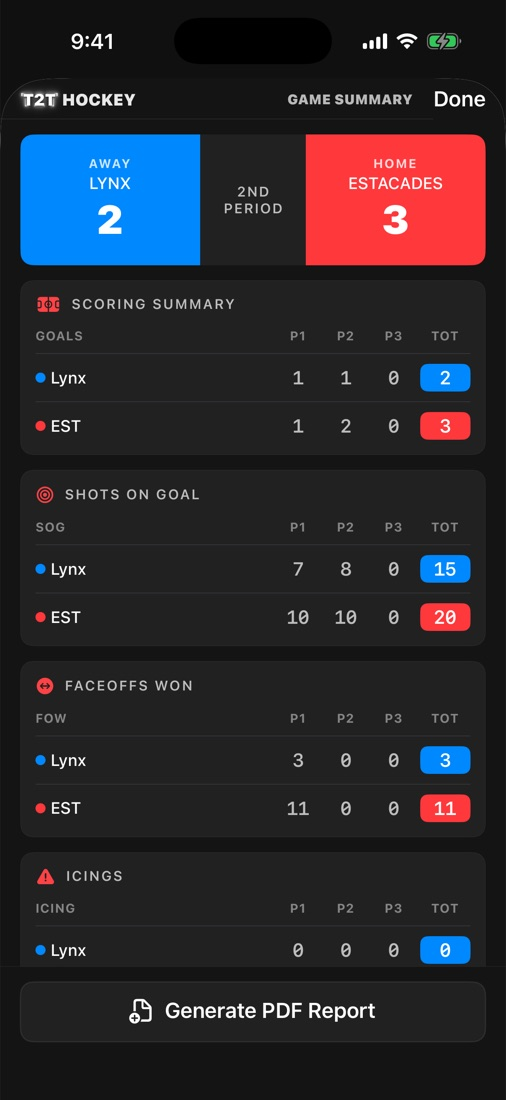
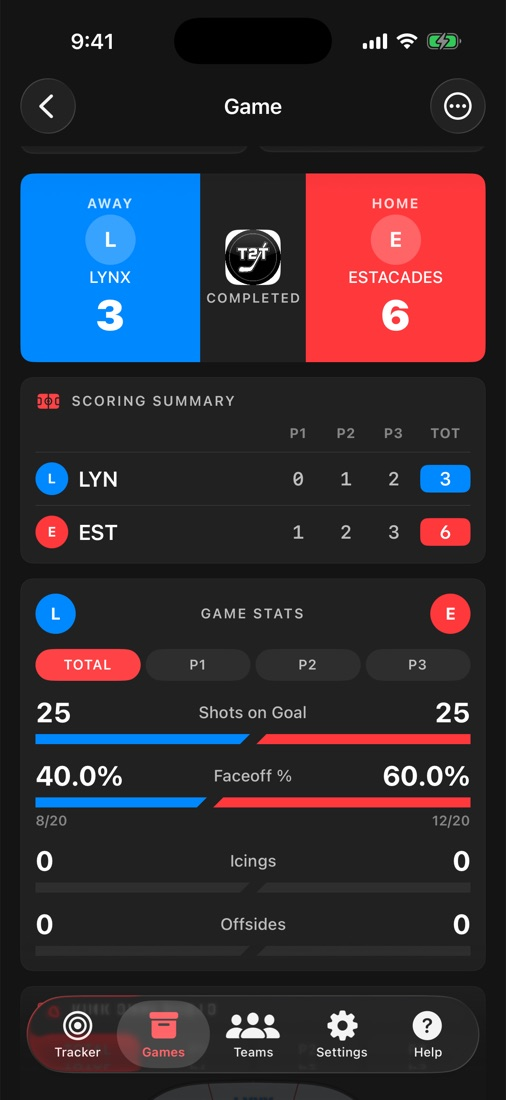
Nouvelles captures et fonctionnalités : ligne du temps, prolongation et tirs de barrage, statistiques du match, images pour les réseaux sociaux, ligues et tournois

diff --git a/fr/index.html b/fr/index.html
@@ -4,7 +4,7 @@
   <meta charset="utf-8">
   <meta name="viewport" content="width=device-width, initial-scale=1">
   <title>T2T Hockey · Les stats de hockey en direct, un geste par événement</title>
-  <meta name="description" content="T2T Hockey permet aux parents et aux entraîneurs de compiler les stats de hockey en direct sur la patinoire, un geste par événement : tirs, buts, mises au jeu, mises en échec et plus. Résumés de match, rapports PDF et analyse de saison.">
+  <meta name="description" content="T2T Hockey permet aux parents et aux entraîneurs de compiler les stats de hockey en direct sur la patinoire, un geste par événement : tirs, buts, mises au jeu, mises en échec et plus. Résumés de match, rapports PDF, images pour les réseaux sociaux, ligues et tournois, et analyse de saison.">
   <link rel="alternate" hreflang="en" href="https://tap2track.github.io/">
   <link rel="alternate" hreflang="fr" href="https://tap2track.github.io/fr/">
   <link rel="canonical" href="https://tap2track.github.io/fr/">
@@ -21,7 +21,7 @@
   <meta property="og:locale:alternate" content="en_CA">
   <meta name="twitter:card" content="summary_large_image">
   <meta property="og:title" content="T2T Hockey · Les stats de hockey en direct, un geste par événement">
-  <meta property="og:description" content="T2T Hockey permet aux parents et aux entraîneurs de compiler les stats de hockey en direct sur la patinoire, un geste par événement : tirs, buts, mises au jeu, mises en échec et plus. Résumés de match, rapports PDF et analyse de saison.">
+  <meta property="og:description" content="T2T Hockey permet aux parents et aux entraîneurs de compiler les stats de hockey en direct sur la patinoire, un geste par événement : tirs, buts, mises au jeu, mises en échec et plus. Résumés de match, rapports PDF, images pour les réseaux sociaux, ligues et tournois, et analyse de saison.">
   <link rel="stylesheet" href="../assets/site.css">
 </head>
 <body>
@@ -36,7 +36,7 @@
         <div>
           <div class="eyebrow">Pour les parents et les entraîneurs</div>
           <h1>Les stats du match en direct.<br>Un geste par événement.</h1>
-          <p class="lead">Notez chaque tir, but, mise au jeu et mise en échec directement sur la patinoire pendant le match. T2T Hockey transforme vos touches en résumés de match, rapports PDF et tendances de saison.</p>
+          <p class="lead">Notez chaque tir, but, mise au jeu et mise en échec directement sur la patinoire pendant le match. T2T Hockey transforme vos touches en résumés de match, rapports PDF, images pour les réseaux sociaux et tendances de saison.</p>
           <div class="ctas">
             <a class="btn" href="mailto:tap2track@gmail.com?subject=Invitation%20%C3%A0%20la%20b%C3%AAta%20T2T%20Hockey">Demander une invitation à la bêta</a>
             <span class="btn secondary" aria-disabled="true">App Store · bientôt</span>
@@ -54,11 +54,14 @@
         <p class="section-lead">Aucune configuration compliquée. Ouvrez l'app, choisissez vos équipes et touchez la glace.</p>
         <div class="features">
           <div class="feature"><div class="icon" aria-hidden="true">🎯</div><h3>Un geste par événement</h3><p>Touchez pour un tir, deux fois pour un but, glissez pour les tirs ratés et bloqués, dégagements refusés, hors-jeu, revirements et mises au jeu, appui long pour une mise en échec. Le pointage se met à jour en direct.</p></div>
-          <div class="feature"><div class="icon" aria-hidden="true">📋</div><h3>Résumé de match instantané</h3><p>Buts, tirs au but et mises au jeu par période, avec la patinoire de tous les tirs. Partagez un rapport PDF en quelques secondes.</p></div>
+          <div class="feature"><div class="icon" aria-hidden="true">↩</div><h3>Corrigez tout, en tout temps</h3><p>Parcourez chaque événement sur une ligne du temps : modifiez-le, supprimez-le ou glissez-le au bon endroit sur la glace. Fini les « annuler, annuler, annuler ».</p></div>
+          <div class="feature"><div class="icon" aria-hidden="true">⏱</div><h3>Comme un vrai match</h3><p>Changement de côté à chaque période, prolongation comme dans la LNH et tirs de barrage au besoin. L'app vous demande si le match est terminé au bon moment.</p></div>
+          <div class="feature"><div class="icon" aria-hidden="true">📋</div><h3>Résumé de match instantané</h3><p>Un tableau indicateur avec les logos des équipes, le sommaire des buts et les statistiques face à face par période, avec la patinoire de tous les tirs. Partagez un rapport PDF en quelques secondes.</p></div>
+          <div class="feature"><div class="icon" aria-hidden="true">📸</div><h3>Images pour les réseaux sociaux</h3><p>Express (le pointage et la patinoire) ou Détaillé (avec graphiques) : copiez l'image et collez-la dans Facebook, Instagram ou Messenger.</p></div>
+          <div class="feature"><div class="icon" aria-hidden="true">🏆</div><h3>Ligues et tournois</h3><p>Regroupez vos matchs par saison de ligue ou par tournoi, avec une fiche pour chacun. Indiquez les matchs de séries et hors-concours.</p></div>
           <div class="feature"><div class="icon" aria-hidden="true">📈</div><h3>Analyse de saison</h3><p>Tendances match après match, à domicile et à l'étranger, patinoire des tirs de la saison et fiches face à face contre chaque adversaire.</p></div>
           <div class="feature"><div class="icon" aria-hidden="true">🏒</div><h3>Clubs et équipes</h3><p>Organisez vos équipes par club, catégorie et division, avec leur propre logo, couleur et abréviation.</p></div>
-          <div class="feature"><div class="icon" aria-hidden="true">🔒</div><h3>Vos données restent chez vous</h3><p>Aucun compte, aucun pistage, aucune publicité. Tout reste sur votre iPhone, avec une sauvegarde complète à exporter en tout temps.</p></div>
-          <div class="feature"><div class="icon" aria-hidden="true">🇨🇦</div><h3>Français et anglais</h3><p>Entièrement bilingue, avec le vrai vocabulaire du hockey dans les deux langues. Choisissez votre langue dans les Réglages.</p></div>
+          <div class="feature"><div class="icon" aria-hidden="true">🔒</div><h3>Privé et bilingue</h3><p>Aucun compte, aucun pistage, aucune publicité. Tout reste sur votre iPhone, en français ou en anglais, avec une sauvegarde complète à exporter en tout temps.</p></div>
         </div>
       </section>
 
@@ -67,7 +70,9 @@
         <p class="section-lead">Du premier geste à la fin de la saison.</p>
         <div class="gallery">
           <figure><img class="phone" src="../assets/screens/fr-tracker.jpg" alt="Écran En direct"><figcaption>En direct sur la patinoire</figcaption></figure>
-          <figure><img class="phone" src="../assets/screens/fr-summary.jpg" alt="Résumé du match par période"><figcaption>Résumé du match par période</figcaption></figure>
+          <figure><img class="phone" src="../assets/screens/fr-summary.jpg" alt="Résumé du match avec le tableau indicateur, le sommaire des buts et les statistiques"><figcaption>Résumé et statistiques du match</figcaption></figure>
+          <figure><img class="phone" src="../assets/screens/fr-social.jpg" alt="Image pour les réseaux sociaux avec le pointage et la patinoire"><figcaption>Une image du match à partager</figcaption></figure>
+          <figure><img class="phone" src="../assets/screens/fr-competition.jpg" alt="Une saison de ligue avec sa fiche et ses matchs"><figcaption>Ligues et tournois</figcaption></figure>
           <figure><img class="phone" src="../assets/screens/fr-trends.jpg" alt="Graphiques de tendances de la saison"><figcaption>Tendances de la saison</figcaption></figure>
           <figure><img class="phone" src="../assets/screens/fr-rink.jpg" alt="Patinoire des tirs de la saison"><figcaption>Tous les tirs de la saison</figcaption></figure>
         </div>
@@ -84,7 +89,7 @@
               <li>Saisie en direct avec tous les gestes</li>
               <li>Résumé du match et statistiques avancées</li>
               <li>2 rapports PDF par mois</li>
-              <li>Cartes de partage (avec filigrane T2T Hockey)</li>
+              <li>Images pour les réseaux sociaux (« Présenté par T2T Hockey »)</li>
               <li>Un match à la fois</li>
             </ul>
           </div>
@@ -95,7 +100,7 @@
               <li>Historique de matchs illimité</li>
               <li>Analyse de saison : tendances, graphiques et adversaires</li>
               <li>Rapports PDF illimités</li>
-              <li>Cartes de partage sans filigrane</li>
+              <li>Images pour les réseaux sociaux sans la mention T2T Hockey</li>
             </ul>
           </div>
         </div>

diff --git a/index.html b/index.html
@@ -4,7 +4,7 @@
   <meta charset="utf-8">
   <meta name="viewport" content="width=device-width, initial-scale=1">
   <title>T2T Hockey · Live hockey stats, one tap per event</title>
-  <meta name="description" content="T2T Hockey lets parents and coaches track live hockey stats on the rink, one gesture per event: shots, goals, faceoffs, hits and more. Match summaries, PDF reports and season analysis.">
+  <meta name="description" content="T2T Hockey lets parents and coaches track live hockey stats on the rink, one gesture per event: shots, goals, faceoffs, hits and more. Game summaries, PDF reports, images for social media, leagues and tournaments, and season analysis.">
   <link rel="alternate" hreflang="fr" href="https://tap2track.github.io/fr/">
   <link rel="alternate" hreflang="en" href="https://tap2track.github.io/">
   <link rel="canonical" href="https://tap2track.github.io/">
@@ -21,7 +21,7 @@
   <meta property="og:locale:alternate" content="fr_CA">
   <meta name="twitter:card" content="summary_large_image">
   <meta property="og:title" content="T2T Hockey · Live hockey stats, one tap per event">
-  <meta property="og:description" content="T2T Hockey lets parents and coaches track live hockey stats on the rink, one gesture per event: shots, goals, faceoffs, hits and more. Match summaries, PDF reports and season analysis.">
+  <meta property="og:description" content="T2T Hockey lets parents and coaches track live hockey stats on the rink, one gesture per event: shots, goals, faceoffs, hits and more. Game summaries, PDF reports, images for social media, leagues and tournaments, and season analysis.">
   <link rel="stylesheet" href="assets/site.css">
 </head>
 <body>
@@ -36,7 +36,7 @@
         <div>
           <div class="eyebrow">For hockey parents &amp; coaches</div>
           <h1>Live hockey stats.<br>One tap per event.</h1>
-          <p class="lead">Track every shot, goal, faceoff and hit right on the rink while the game is on. T2T Hockey turns your taps into match summaries, PDF reports and season trends.</p>
+          <p class="lead">Track every shot, goal, faceoff and hit right on the rink while the game is on. T2T Hockey turns your taps into game summaries, PDF reports, images for social media and season trends.</p>
           <div class="ctas">
             <a class="btn" href="mailto:tap2track@gmail.com?subject=T2T%20Hockey%20beta%20invite">Request a beta invite</a>
             <span class="btn secondary" aria-disabled="true">App Store · coming soon</span>
@@ -54,11 +54,14 @@
         <p class="section-lead">No complicated setup. Open the app, pick your teams and tap the ice.</p>
         <div class="features">
           <div class="feature"><div class="icon" aria-hidden="true">🎯</div><h3>One gesture per event</h3><p>Tap for a shot, double tap for a goal, drag for missed and blocked shots, icings, offsides, turnovers and faceoffs, long press for a hit. The score updates live.</p></div>
-          <div class="feature"><div class="icon" aria-hidden="true">📋</div><h3>Instant match summary</h3><p>Goals, shots on goal and faceoffs by period, plus a rink map of every shot. Share a PDF report in seconds.</p></div>
+          <div class="feature"><div class="icon" aria-hidden="true">↩</div><h3>Fix anything, anytime</h3><p>Browse every event on a timeline: edit it, delete it or drag it to the right spot on the ice. No more “undo, undo, undo”.</p></div>
+          <div class="feature"><div class="icon" aria-hidden="true">⏱</div><h3>Just like a real game</h3><p>Teams switch ends every period, NHL-style overtime and a shootout when needed. The app asks if the game is over at the right time.</p></div>
+          <div class="feature"><div class="icon" aria-hidden="true">📋</div><h3>Instant game summary</h3><p>A scoreboard with the team logos, the scoring summary and head-to-head game stats by period, plus a rink map of every shot. Share a PDF report in seconds.</p></div>
+          <div class="feature"><div class="icon" aria-hidden="true">📸</div><h3>Images for social media</h3><p>Express (the score and the rink) or Detailed (with charts): copy the image and paste it in Facebook, Instagram or Messenger.</p></div>
+          <div class="feature"><div class="icon" aria-hidden="true">🏆</div><h3>Leagues and tournaments</h3><p>Group your games by league season or tournament, with a record for each. Mark playoff and exhibition games.</p></div>
           <div class="feature"><div class="icon" aria-hidden="true">📈</div><h3>Season analysis</h3><p>Trends game after game, home and road splits, a season shot map and head-to-head records against every opponent.</p></div>
           <div class="feature"><div class="icon" aria-hidden="true">🏒</div><h3>Clubs and teams</h3><p>Organize teams by club, category and division, with their own logo, color and abbreviation.</p></div>
-          <div class="feature"><div class="icon" aria-hidden="true">🔒</div><h3>Private by design</h3><p>No account, no tracking, no ads. Everything stays on your iPhone, with a full backup you can export anytime.</p></div>
-          <div class="feature"><div class="icon" aria-hidden="true">🇨🇦</div><h3>English and French</h3><p>Fully bilingual, with real hockey vocabulary in both languages. Pick your language in Settings.</p></div>
+          <div class="feature"><div class="icon" aria-hidden="true">🔒</div><h3>Private and bilingual</h3><p>No account, no tracking, no ads. Everything stays on your iPhone, in English or French, with a full backup you can export anytime.</p></div>
         </div>
       </section>
 
@@ -67,7 +70,9 @@
         <p class="section-lead">From the first tap to the end of the season.</p>
         <div class="gallery">
           <figure><img class="phone" src="assets/screens/en-tracker.jpg" alt="Live tracker"><figcaption>Track live on the rink</figcaption></figure>
-          <figure><img class="phone" src="assets/screens/en-summary.jpg" alt="Match summary by period"><figcaption>Match summary by period</figcaption></figure>
+          <figure><img class="phone" src="assets/screens/en-summary.jpg" alt="Game summary with the scoreboard, scoring summary and game stats"><figcaption>Game summary and stats</figcaption></figure>
+          <figure><img class="phone" src="assets/screens/en-social.jpg" alt="Image for social media with the score and the rink"><figcaption>Share an image of the game</figcaption></figure>
+          <figure><img class="phone" src="assets/screens/en-competition.jpg" alt="A league season with its record and games"><figcaption>Leagues and tournaments</figcaption></figure>
           <figure><img class="phone" src="assets/screens/en-trends.jpg" alt="Season trend charts"><figcaption>Season trends</figcaption></figure>
           <figure><img class="phone" src="assets/screens/en-rink.jpg" alt="Season shot map"><figcaption>Every shot of the season</figcaption></figure>
         </div>
@@ -75,27 +80,27 @@
 
       <section>
         <h2>Free to start</h2>
-        <p class="section-lead">Track your current match for free. Go Premium to keep your whole season.</p>
+        <p class="section-lead">Track your current game for free. Go Premium to keep your whole season.</p>
         <div class="plans">
           <div class="plan">
             <h3>Free</h3>
             <div class="price">$0</div>
             <ul>
               <li>Live tracking with every gesture</li>
-              <li>Match summary and advanced stats</li>
+              <li>Game summary and advanced stats</li>
               <li>2 PDF reports per month</li>
-              <li>Share cards (with T2T Hockey watermark)</li>
-              <li>One match at a time</li>
+              <li>Images for social media (“Presented by T2T Hockey”)</li>
+              <li>One game at a time</li>
             </ul>
           </div>
           <div class="plan premium">
             <h3>Premium</h3>
             <div class="price">$4.99 / month or $49.99 / year (CAD) · 7-day free trial</div>
             <ul>
-              <li>Unlimited match history</li>
+              <li>Unlimited game history</li>
               <li>Season analysis: trends, charts and opponents</li>
               <li>Unlimited PDF reports</li>
-              <li>Watermark-free share cards</li>
+              <li>Images for social media without the T2T Hockey mention</li>
             </ul>
           </div>
         </div>

diff --git a/assets/site.css b/assets/site.css
@@ -78,7 +78,7 @@ h2 { font-size: clamp(28px, 4vw, 40px); margin: 0 0 10px; font-weight: 800; lett
 .feature h3 { margin: 10px 0 6px; font-size: 19px; }
 .feature p { margin: 0; color: var(--text-2); font-size: 16px; }
 
-.gallery { display: grid; grid-template-columns: repeat(4, 1fr); gap: 20px; }
+.gallery { display: grid; grid-template-columns: repeat(3, 1fr); gap: 20px; }
 .gallery figure { margin: 0; text-align: center; }
 .gallery .phone { max-width: 100%; border-width: 4px; border-radius: 28px; }
 .gallery figcaption { color: var(--text-2); font-size: 15px; margin-top: 12px; }
